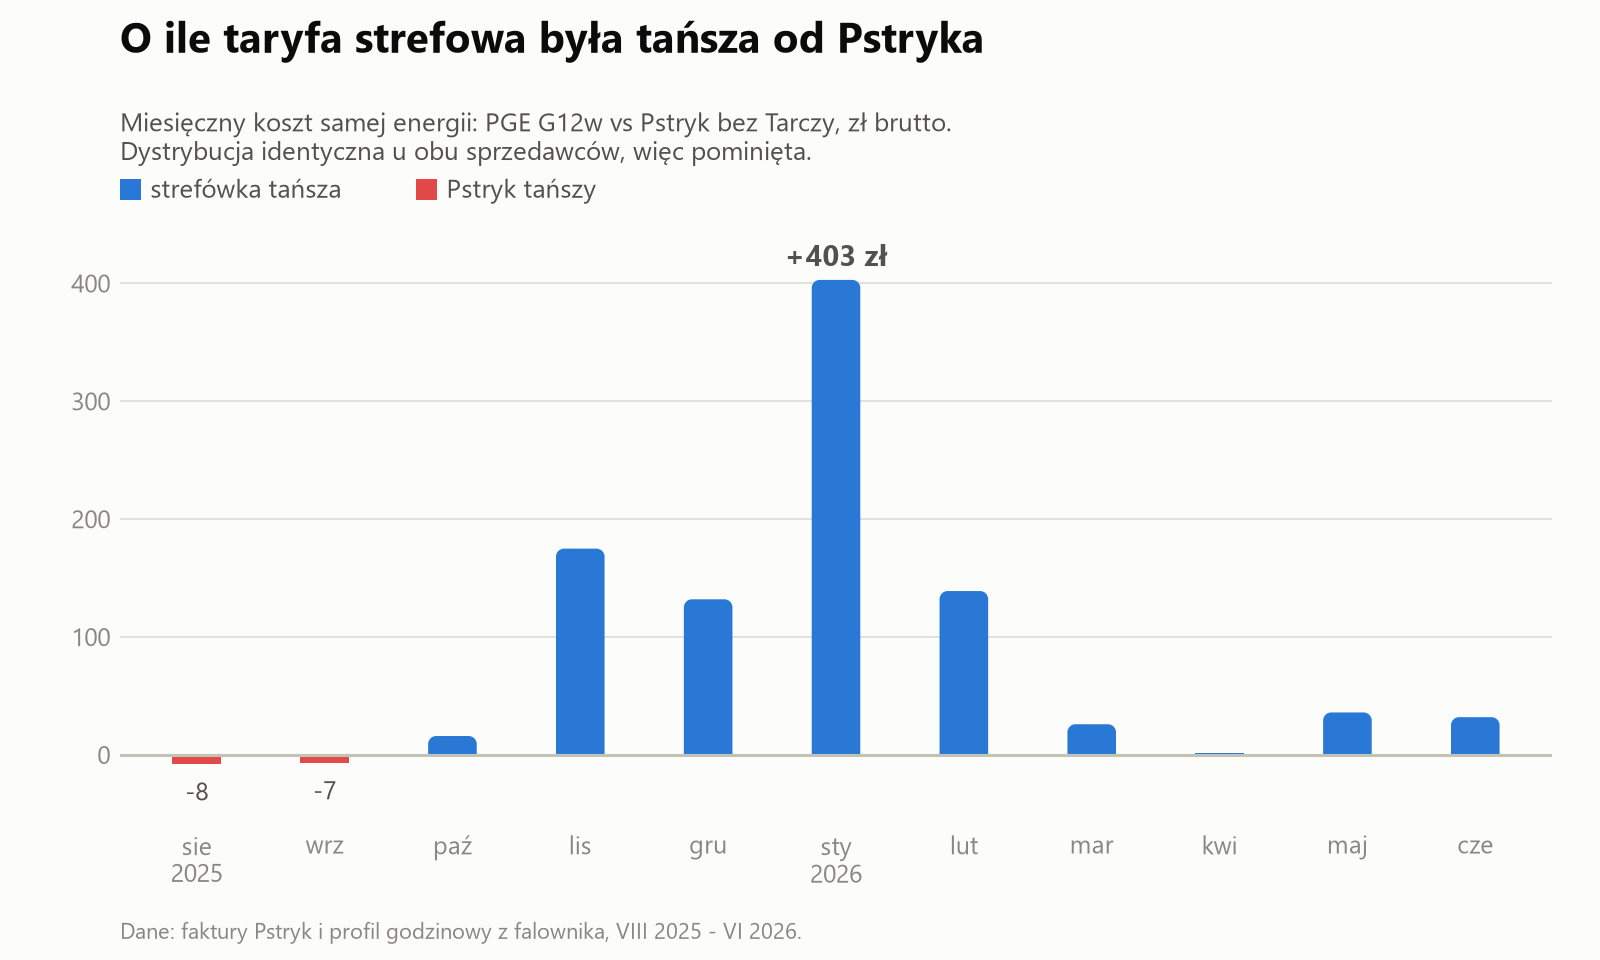
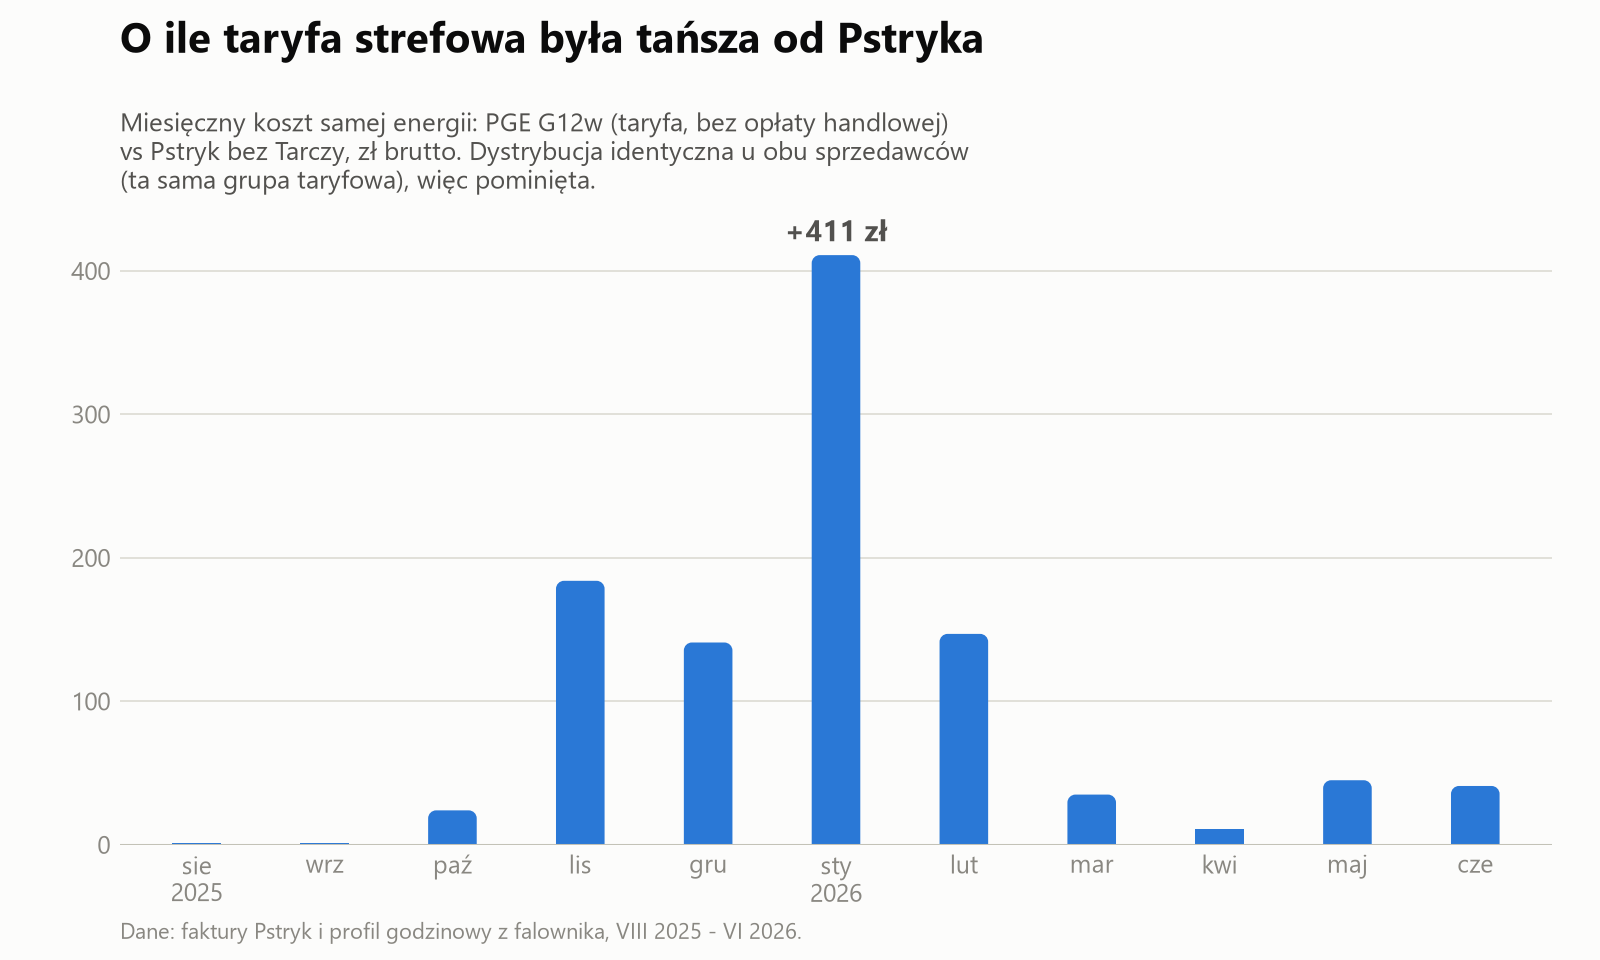
Korekta liczb we wpisie o taryfach: taryfa PGE bez oplaty handlowej
Nowa tabela (G12w 4127 zl, styczen +411), nowy wykres (Pstryk nie wygrywa zadnego miesiaca), projekcja 1330-1460 zl/rok.

diff --git a/content/wpisy/2026-07-16-pstryk-czy-jednak-taryfa-strefowa-kiedy-co-sie-oplaca.md b/content/wpisy/2026-07-16-pstryk-czy-jednak-taryfa-strefowa-kiedy-co-sie-oplaca.md
@@ -43,84 +43,84 @@ excerpt: "Pstryk ma świetną aplikację i uczciwie oddaje klientom giełdowe ce
 <tr>
 <td>sie 2025</td>
 <td>55</td>
-<td>41</td>
+<td>33</td>
 <td>34</td>
 <td>34</td>
 </tr>
 <tr>
 <td>wrz 2025</td>
 <td>118</td>
-<td>79</td>
+<td>71</td>
 <td>72</td>
 <td>72</td>
 </tr>
 <tr>
 <td>paź 2025</td>
 <td>573</td>
-<td>336</td>
+<td>327</td>
 <td>349</td>
 <td>352</td>
 </tr>
 <tr>
 <td>lis 2025</td>
 <td>955</td>
-<td>536</td>
+<td>527</td>
 <td>582</td>
 <td>711</td>
 </tr>
 <tr>
 <td>gru 2025</td>
 <td>1 285</td>
-<td>707</td>
+<td>699</td>
 <td>782</td>
 <td>839</td>
 </tr>
 <tr>
 <td><strong>sty 2026</strong></td>
 <td><strong>1 589</strong></td>
-<td><strong>893</strong></td>
+<td><strong>884</strong></td>
 <td><strong>967</strong></td>
 <td><strong>1 296</strong></td>
 </tr>
 <tr>
 <td>lut 2026</td>
 <td>1 282</td>
-<td>719</td>
+<td>711</td>
 <td>781</td>
 <td>858</td>
 </tr>
 <tr>
 <td>mar 2026</td>
 <td>359</td>
-<td>217</td>
+<td>208</td>
 <td>218</td>
 <td>243</td>
 </tr>
 <tr>
 <td>kwi 2026</td>
 <td>295</td>
-<td>183</td>
+<td>174</td>
 <td>180</td>
 <td>185</td>
 </tr>
 <tr>
 <td>maj 2026</td>
 <td>500</td>
-<td>306</td>
+<td>298</td>
 <td>305</td>
 <td>342</td>
 </tr>
 <tr>
 <td>cze 2026</td>
 <td>326</td>
-<td>205</td>
+<td>196</td>
 <td>198</td>
 <td>237</td>
 </tr>
 <tr>
 <td><strong>Suma</strong></td>
 <td><strong>7 336</strong></td>
-<td><strong>4 222</strong></td>
+<td><strong>4 127</strong></td>
 <td><strong>4 467</strong></td>
 <td><strong>5 168</strong></td>
 </tr>
@@ -130,9 +130,9 @@ excerpt: "Pstryk ma świetną aplikację i uczciwie oddaje klientom giełdowe ce
 
 <p>Co z tego widać:</p>
 <ul>
-<li><strong>Latem Pstryk faktycznie wygrywa</strong> - o kilka złotych miesięcznie. W czerwcu zapłaciłem za energię 198 zł, na G12w byłoby 205 zł. Siedem złotych różnicy.</li>
-<li><strong>Zimą Pstryk przegrywa z kretesem.</strong> Sam styczeń bez Tarczy to 1 296 zł wobec 893 zł na G12w - <strong>403 zł różnicy w jeden miesiąc</strong>. Grudzień i luty dokładają po ~130-140 zł.</li>
-<li>Po 11 miesiącach: G12w tańsza o 245 zł przy działającej Tarczy i o <strong>946 zł bez Tarczy</strong>. W pełnym roku z autem (moje projekcje na podstawie tych danych) różnica rośnie do <strong>1 220-1 360 zł rocznie</strong> na korzyść G12w.</li>
+<li><strong>Latem to remis co do pojedynczych złotych.</strong> W czerwcu za energię zapłaciłem w Pstryku 198 zł, na G12w byłoby 196 zł. Z Tarczą Pstryk bywa o złotówkę-dwie od strefówki lepszy albo gorszy - czysty szum.</li>
+<li><strong>Zimą Pstryk przegrywa z kretesem.</strong> Sam styczeń bez Tarczy to 1 296 zł wobec 884 zł na G12w - <strong>411 zł różnicy w jeden miesiąc</strong>. Grudzień i luty dokładają po ~140-150 zł.</li>
+<li>Po 11 miesiącach: G12w tańsza o 340 zł przy działającej Tarczy i o <strong>1 041 zł bez Tarczy</strong>. W pełnym roku z autem (moje projekcje na podstawie tych danych) różnica rośnie do <strong>ok. 1 330-1 460 zł rocznie</strong> na korzyść G12w.</li>
 </ul>
 <p>Mechanizm jest prosty: o rachunku rocznym decyduje zima, bo wtedy kupuję 1 300-1 600 kWh miesięcznie, a zimowy spot potrafi kosztować 0,66-0,81 zł/kWh brutto. Latem, kiedy spot bywa tani, ja prawie nic nie kupuję, bo mam własną produkcję.</p>
 <h2>Dlaczego u mnie wygrywa strefówka</h2>
@@ -172,7 +172,7 @@ excerpt: "Pstryk ma świetną aplikację i uczciwie oddaje klientom giełdowe ce
 </ul>
 <p>I jeszcze jedno, co zaskoczyło mnie podwójnie: strefówka strefówce nierówna - i nie wystarczy porównać stawek za samą energię. Intuicja podpowiada: więcej tanich godzin = taniej, więc weekendowa G12w powinna bić zwykłą G12. Policzyłem na swoim profilu godzinowym (stawki PGE 2026) i najpierw wyszło odwrotnie: na samej energii G12 była o ok. 230 zł na 11 miesięcy tańsza, bo zimą większość mojego poboru i tak przypada na noc 22-6, tanią w obu taryfach, a nocna stawka G12 jest o ponad 6 gr niższa (46,35 vs 52,71 gr brutto). Ale kiedy sięgnąłem do taryfy dystrybucyjnej, obraz się odwrócił: <strong>opłaty przesyłowe też są strefowe, a ich rozpiętość jest ogromna</strong> - w G12 ok. 0,49 zł/kWh w dzień wobec 0,09 zł w nocy. Tanie weekendy G12w obniżają więc także dystrybucję i odrabiają w niej ok. 180 zł. Na pełnym rachunku różnica między G12 a G12w stopniała u mnie do ok. 50 zł - praktyczny remis. Wniosek jest podwójny: po pierwsze, <strong>licz zawsze pełny rachunek (energia plus dystrybucja), nie same stawki sprzedawcy</strong>; po drugie, przy remisie wybieraj taryfę, która wybacza - ja zostaję przy G12w, bo tanie weekendy nie każą mi pilnować zegarka. Uwaga na oferty rynkowe: niższa stawka często idzie w parze z opłatą handlową i umową na czas określony.</p>
 <h2>Werdykt</h2>
-<p>U mnie - dom w pełni elektryczny, 9 kWp na dachu, magazyn, auto elektryczne, łącznie ok. 15 MWh rocznego zapotrzebowania - <strong>taryfa strefowa wygrywa z Pstrykiem o ok. 1 220-1 360 zł rocznie</strong> (licząc wariant G12w, bez Tarczy, bo ona zniknie). A między samymi strefówkami? Na pełnym rachunku G12 i G12w dzieli u mnie ok. 50 zł rocznie, więc zostaję przy G12w - elastyczność tanich weekendów w cenie remisu. Jedenaście miesięcy realnych danych, nie symulacja z ulotki.</p>
+<p>U mnie - dom w pełni elektryczny, 9 kWp na dachu, magazyn, auto elektryczne, łącznie ok. 15 MWh rocznego zapotrzebowania - <strong>taryfa strefowa wygrywa z Pstrykiem o ok. 1 330-1 460 zł rocznie</strong> (licząc wariant G12w, bez Tarczy, bo ona zniknie). A między samymi strefówkami? Na pełnym rachunku G12 i G12w dzieli u mnie ok. 50 zł rocznie, więc zostaję przy G12w - elastyczność tanich weekendów w cenie remisu. Jedenaście miesięcy realnych danych, nie symulacja z ulotki.</p>
 <p>Ale to nie jest werdykt „Pstryk jest zły". To werdykt: <strong>Pstryk jest fajny, ale nie dla każdego :-)</strong> Trzeba go dopasować do swojej sytuacji. Gdybym nie miał paneli i grzał gazem, prawdopodobnie pisałbym teraz tekst odwrotny.</p>
 <p>Morał na koniec: <strong>nie wybieraj taryfy z reklamy, wybierz ją z własnego profilu zużycia.</strong> Ściągnij swoje dane godzinowe (z licznika, falownika albo aplikacji sprzedawcy), policz, ile procent energii kupujesz w godzinach taniej strefy, i dopiero wtedy decyduj. Ja policzyłem - i wracam na strefówkę, choć z apką Pstryka rozstanę się z pewnym żalem.</p>
 <hr />
